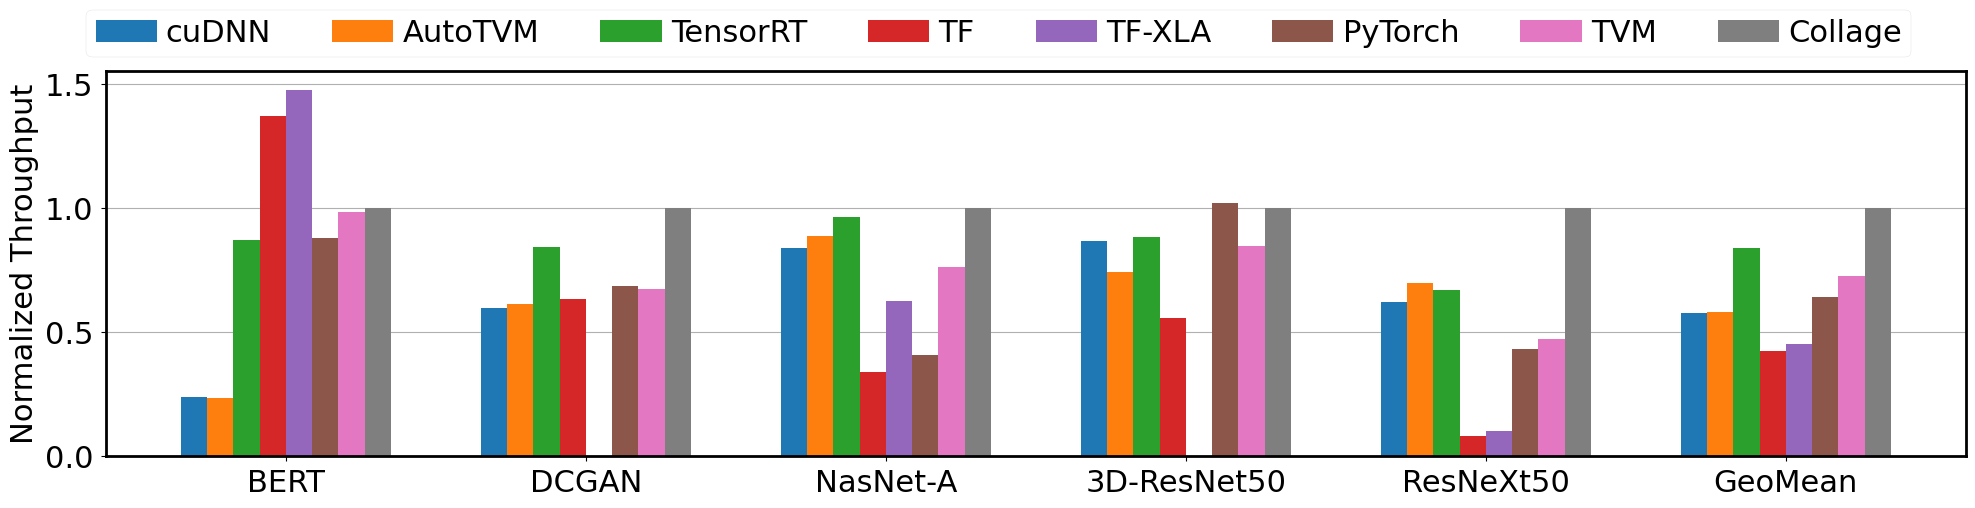
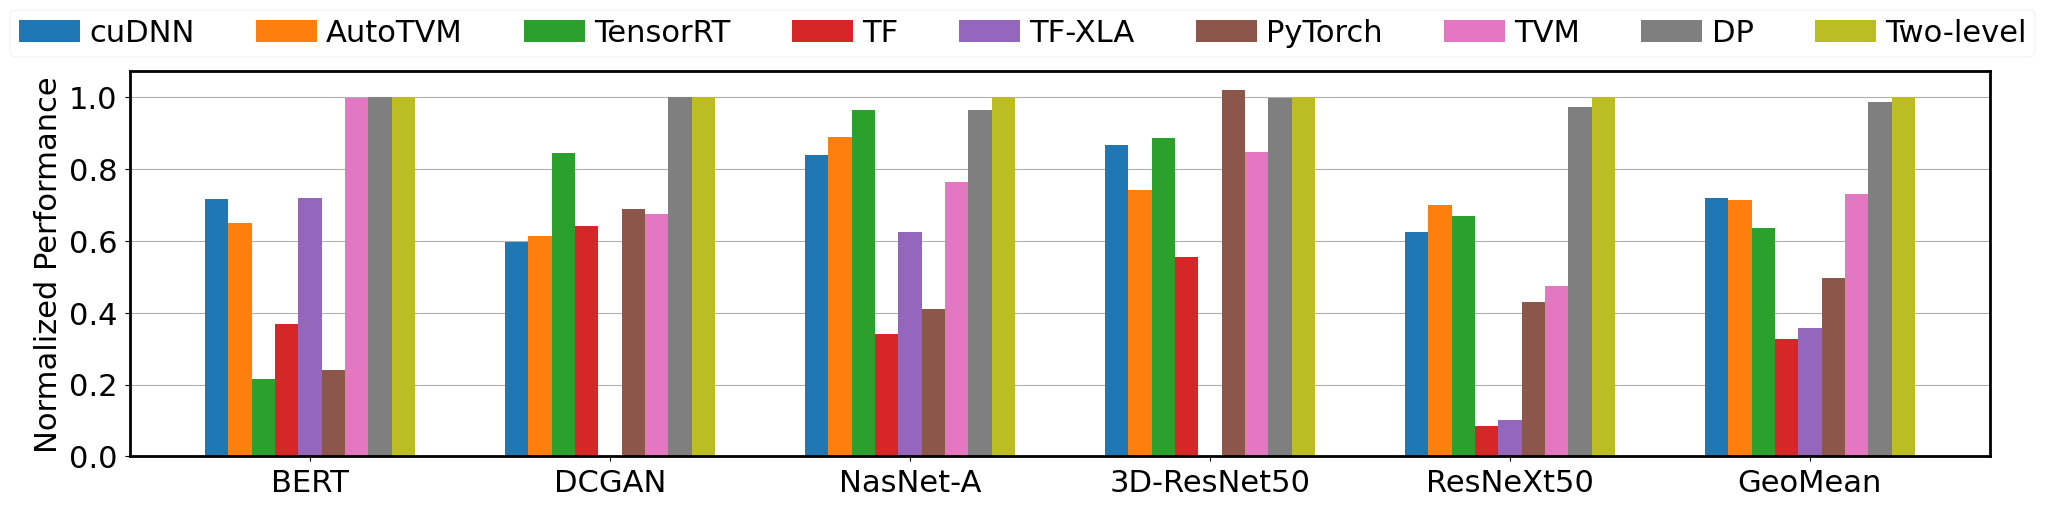
[E2E plotting] ready for all hws and different batch size tests

diff --git a/sandbox/testing/plot_e2e_perf.py b/sandbox/testing/plot_e2e_perf.py
@@ -2,20 +2,22 @@ import matplotlib.pyplot as plt
 import pandas as pd
 from e2e_perf_logger import *
 from tvm.relay.transform.utility.plot_utils import set_plt_font_size
+from tvm.relay.transform.backend_operator.target import *
 from scipy import stats
 import argparse
 
-NET_NAME_TO_OFFICIAL = {'bert': 'BERT', 'nasneta':"NasNet-A", 'resnet50': 'ResNet50',
+NET_NAME_TO_OFFICIAL = {'bert_full': 'BERT', 'nasneta':"NasNet-A", 'resnet50': 'ResNet50',
                       'resnext50_32x4d':"ResNeXt50", 'resnet50_3d':"3D-ResNet50",
                       'mobilenet_v2':"Mobilenet V2", 'nasrnn':"NasRNN", 'dcgan':'DCGAN'}
 
-FINAL_NETWORKS = ["bert", "dcgan", "nasneta", 'resnet50_3d', "resnext50_32x4d"]
+FINAL_NETWORKS = ["bert_full", "dcgan", "nasneta", 'resnet50_3d', "resnext50_32x4d"]
 
-def setup_df_with_baselines_and_method(df):
+def setup_df_with_baselines_and_method(df, methods):
     # Make sure column order is following before we normalize perf
-    df = df[['cuDNN', 'AutoTVM', 'TensorRT', 'TF', 'TF-XLA', 'PyTorch', 'AutoTVM-libs', 'DP', 'Two-level']]
-    df = df.rename(columns={'AutoTVM-libs': 'TVM', 'Two-level': 'Collage'})
-    df = df.drop(columns=['DP'])
+    df = df[methods]
+
+    df = df.rename(columns={'AutoTVM-libs': 'TVM'})
+
     df = df.loc[FINAL_NETWORKS]
     df = df.rename(index=NET_NAME_TO_OFFICIAL)
     # df = df.drop(['Mobilenet V2', 'ResNet50', 'NasRNN'])#, '3D-ResNet50', 'DCGAN', 'NasNet-A', 'ResNeXt50'])
@@ -23,12 +25,53 @@ def setup_df_with_baselines_and_method(df):
     print(df)
     return df
 
-def setup_df_for_normalized_perf_plot(df):
-    df = setup_df_with_baselines_and_method(df)
+def setup_df_with_baselines_and_method_diff_batch(df, methods):
+    # Make sure column order is following before we normalize perf
+    df = df[methods]
+
+    df = df.rename(columns={'AutoTVM-libs': 'TVM'})
+
+    df = df.loc[[1,4,8,16]]
+    BATCH_SIZE_TO_TEXT = {
+        1: "BatchSize=1",
+        4: "BatchSize=4",
+        8: "BatchSize=8",
+        16: "BatchSize=16",
+    }
+    df = df.rename(index=BATCH_SIZE_TO_TEXT)
+    # df = df.drop(['Mobilenet V2', 'ResNet50', 'NasRNN'])#, '3D-ResNet50', 'DCGAN', 'NasNet-A', 'ResNeXt50'])
+
+    print(df)
+    return df
+
+def setup_df_for_normalized_perf_plot_diff_batch(df):
     # Normalize the performance
     for method in df:
-        print(method)
-        df[method] = df['Collage'] / df[method]
+        # print(method)
+        df[method] = df['Two-level'] / df[method]
+
+    # print(df.iloc[0:5, :])
+
+    # Add Geomean
+    df.loc['GeoMean'] = stats.gmean(df.iloc[0:5, :], axis=0)
+
+    # Correct Geomean of TF-XLA to deal with missing values
+    xla_perf = [df.loc['BatchSize=1', 'TF-XLA'], df.loc['BatchSize=4', 'TF-XLA'],
+                df.loc['BatchSize=8', 'TF-XLA'], df.loc['BatchSize=16', 'TF-XLA']]
+    # df.at['GeoMean', 'TF-XLA'] = stats.gmean(xla_perf, axis=0)
+    print(df)
+
+    # Without DP
+    # df = df.rename(columns={'Two-level': 'Collage'})
+    # df = df.drop(columns=['DP'])
+
+    return df
+
+def setup_df_for_normalized_perf_plot(df):
+    # Normalize the performance
+    for method in df:
+        # print(method)
+        df[method] = df['Two-level'] / df[method]
 
     # print(df.iloc[0:5, :])
 
@@ -40,24 +83,26 @@ def setup_df_for_normalized_perf_plot(df):
     df.at['GeoMean', 'TF-XLA'] = stats.gmean(xla_perf, axis=0)
     print(df)
 
+    # Without DP
+    # df = df.rename(columns={'Two-level': 'Collage'})
+    # df = df.drop(columns=['DP'])
+
     return df
 
 def draw_e2e_perf_plot_normalized(df, args):
-    df = setup_df_for_normalized_perf_plot(df)
     df.plot.bar(figsize=(24, 5), width=0.7)
 
     # Save figures
     plt.xlabel("")
-    plt.ylabel('Normalized Throughput')
+    plt.ylabel('Normalized Performance')
     # plt.ylabel('Inference Time (ms)')
 
     plt.grid(axis='y', zorder=-2.0)
     plt.xticks(rotation=0)
-    plt.legend(ncol=8, loc='upper center', bbox_to_anchor=(0.48, 1.2), handletextpad=0.3, borderpad=0.3)
+    plt.legend(ncol=args.n_method, loc='upper center', bbox_to_anchor=(0.48, 1.2), handletextpad=0.3, borderpad=0.3, labelspacing=0.15)
     plt.savefig(f"{EXP_RESULT_PATH}/plots/e2e_perf_norm_{args.hw}_{args.batch_size}.png", bbox_inches='tight')
 
 def draw_e2e_perf_plot_ms(df, args):
-    df = setup_df_with_baselines_and_method(df)
     df.plot.bar(figsize=(24, 5), width=0.7)
 
     # Save figures
@@ -78,14 +123,45 @@ if __name__ == "__main__":
     parser.add_argument("-bs", "--batch-size", default=1, type=int, help="batch size")
     args = parser.parse_args()
 
-    df = pd.read_csv(E2E_PERF_LOG_PATH, header=None)
-    df.columns = E2E_PERF_COLS
-    df = df[(df['HW'] == args.hw) & (df['BatchSize'] == args.batch_size)]
-    df = df.drop(columns=['HW', 'BatchSize', 'Std Perf'])
-    df = df.set_index('Network')
-    df = df.pivot_table(values='Mean Perf', index=df.index, columns='Method', aggfunc='first')
+    print(args)
+    if args.hw in NVIDIA_GPUS or args.hw in INTEL_CPUS:
+        df = pd.read_csv(E2E_PERF_LOG_PATH, header=None)
+        df.columns = E2E_PERF_COLS
+        df = df[(df['HW'] == args.hw) & (df['BatchSize'] == args.batch_size)]
+        df = df.drop(columns=['HW', 'BatchSize', 'Std Perf'])
+        df = df.set_index('Network')
+        df = df.pivot_table(values='Mean Perf', index=df.index, columns='Method', aggfunc='first')
 
-    draw_e2e_perf_plot_normalized(df, args)
+        if args.hw in NVIDIA_GPUS:
+            methods = ['cuDNN', 'AutoTVM', 'TensorRT', 'TF', 'TF-XLA', 'PyTorch', 'AutoTVM-libs', 'DP', 'Two-level']
+        elif args.hw in INTEL_CPUS:
+            methods = ['AutoTVM', 'DNNL', 'TF', 'TF-XLA', 'PyTorch', 'AutoTVM-libs', 'DP', 'Two-level']
+        else:
+            raise Exception(f"{args.hw} is unexpected hw, we need to set default backends for this hw.")
+
+        args.n_method = len(methods)
+
+        df = setup_df_with_baselines_and_method(df, methods)
+        df = setup_df_for_normalized_perf_plot(df)
+        draw_e2e_perf_plot_normalized(df, args)
+    elif args.hw == 'diff_batch_v100':
+        df = pd.read_csv(E2E_PERF_LOG_PATH, header=None)
+        df.columns = E2E_PERF_COLS
+        df = df[(df['HW'] == "v100") & (df['Network'] == "resnext50_32x4d")]
+        df = df.drop(columns=['HW', 'Network', 'Std Perf'])
+        df = df.set_index('BatchSize')
+        df = df.pivot_table(values='Mean Perf', index=df.index, columns='Method', aggfunc='first')
+
+        methods = ['cuDNN', 'AutoTVM', 'TensorRT', 'TF', 'TF-XLA', 'PyTorch', 'AutoTVM-libs', 'DP', 'Two-level']
+        args.n_method = len(methods)
+
+        df = setup_df_with_baselines_and_method_diff_batch(df, methods)
+        df = setup_df_for_normalized_perf_plot_diff_batch(df)
+        draw_e2e_perf_plot_normalized(df, args)
+        # draw_e2e_perf_plot_normalized(df, args)
+    else:
+        raise Exception(f"{args.hw} is unexpected hw, we need to set default backends for this hw.")
+
     # draw_e2e_perf_plot_ms(df, args)
 
 # This plots the speedup breakdown of op-level and two-level
